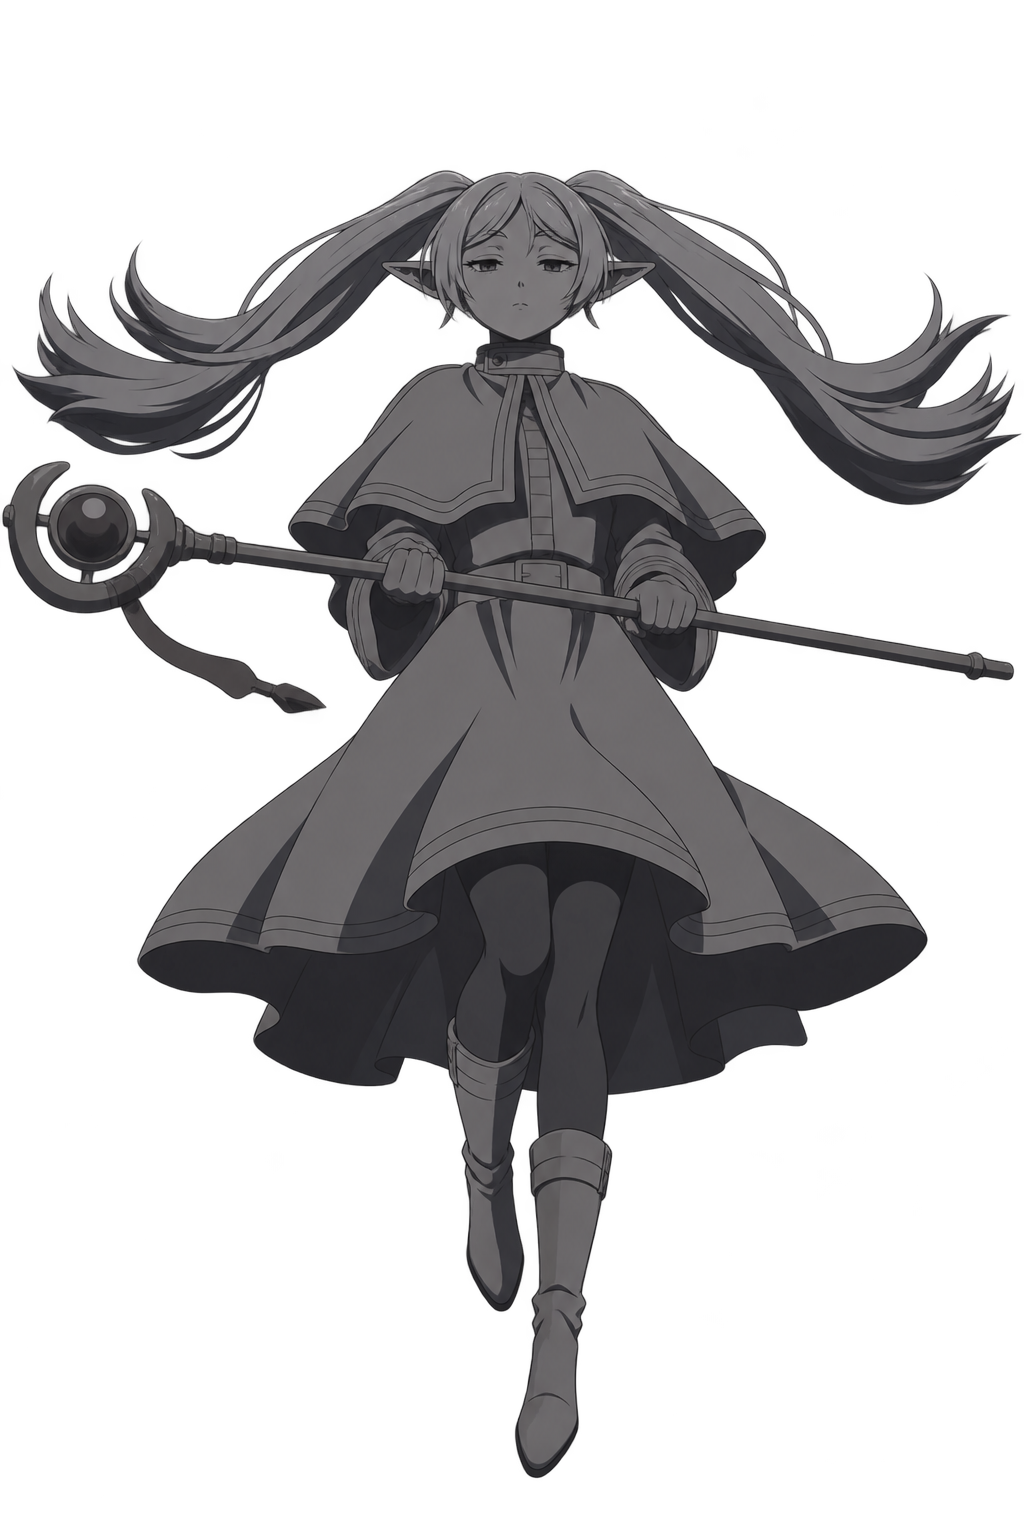
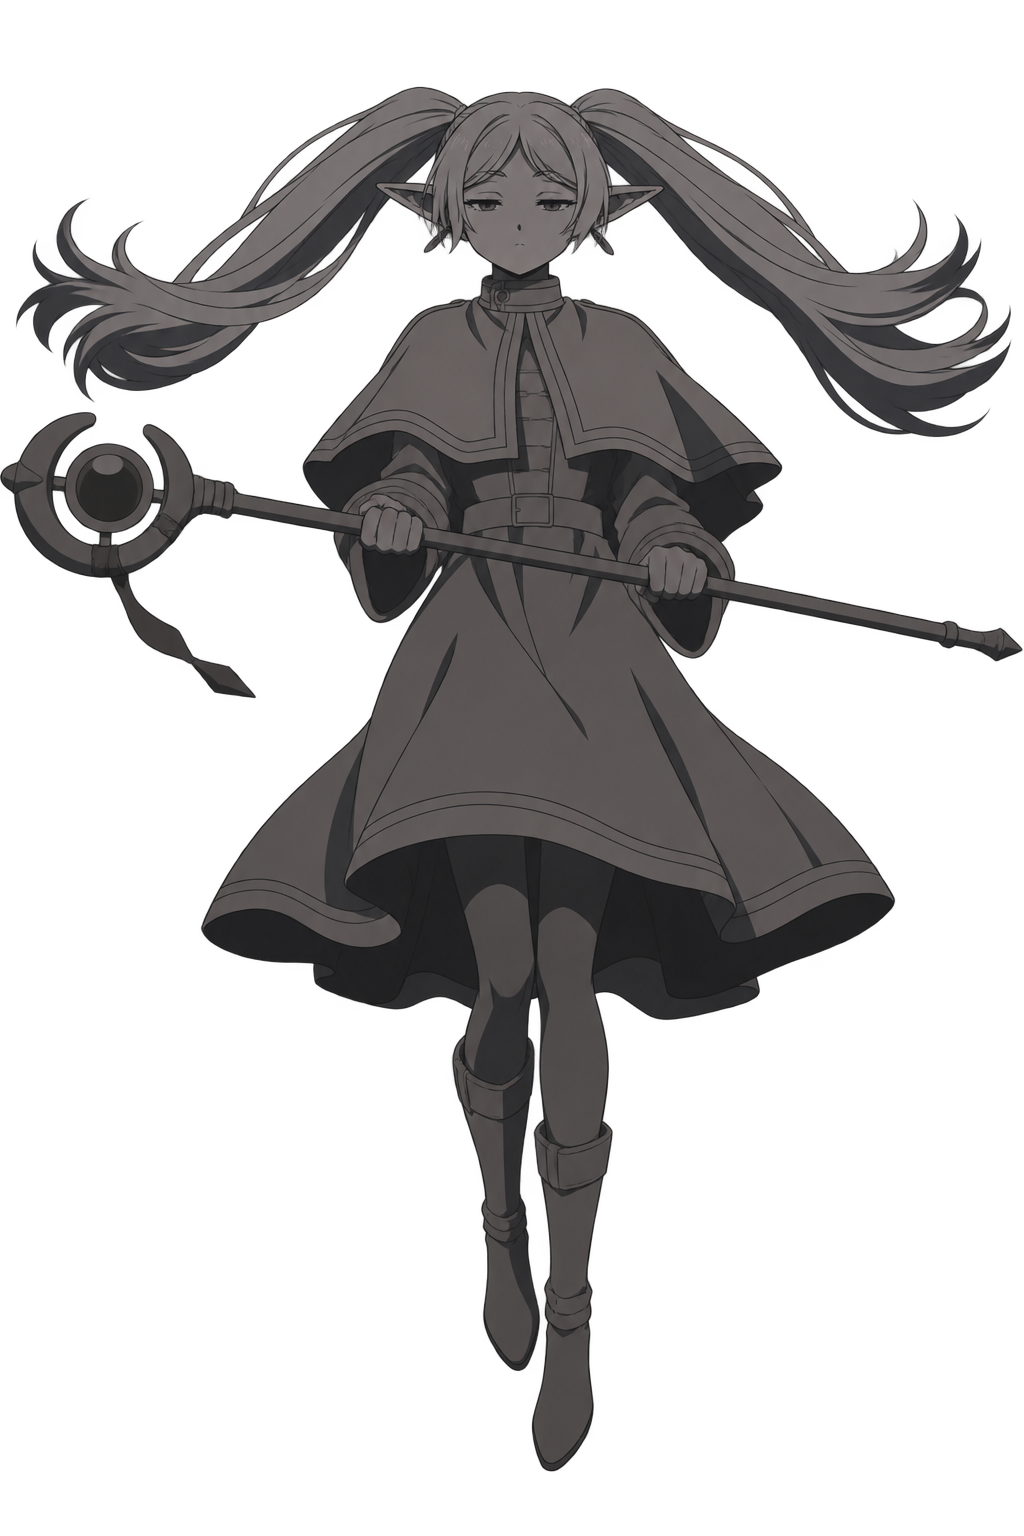
fix:替换复制体Boss立绘并放大百分之十至0.7.13

Changed region(s): [[0.0, 0.0312, 1.0, 0.9688]]

diff --git a/README.md b/README.md
@@ -1,6 +1,8 @@
 # FrierenMod_STS2
 
-芙莉莲一代模组的二代移植测试版，版本 **0.7.12**。多张衍生牌预览沿用原生卡面，每两秒轮换一张，继承来源牌的升级状态；流转仅保留初始牌组获取，不再进入普通奖励、商店和随机生成卡池。
+芙莉莲一代模组的二代移植测试版，版本 **0.7.13**。复制体 Boss 替换为作者提供的新透明立绘，在上一版基础上等比放大10%，保持脚底基线，并同步调整选中范围、意图和气泡位置。
+
+0.7.12：多张衍生牌预览沿用原生卡面，每两秒轮换一张，继承来源牌的升级状态；流转仅保留初始牌组获取，不再进入普通奖励、商店和随机生成卡池。
 
 0.7.11：复制体 Boss 新图等比缩放至原有战斗高度，修复替换高分辨率图片后显示过大的问题。
 
